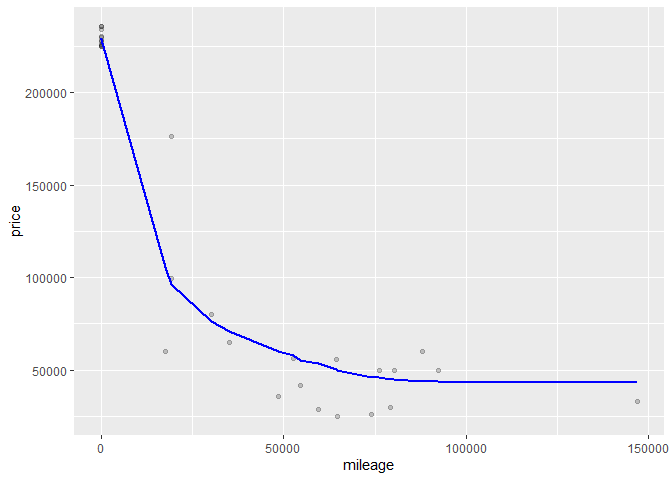
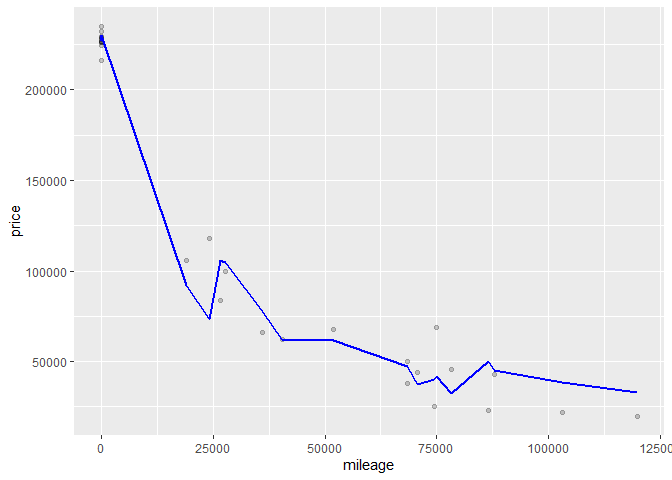
modified

diff --git a/Final_Data-Mining-HW1.md b/Final_Data-Mining-HW1.md
@@ -138,7 +138,7 @@ knn2 = knnreg(price ~ mileage, data=trim_350_train , k=2)
 rmse(knn2, trim_350_test)
 ```
 
-    ## [1] 14675.72
+    ## [1] 14694.68
 
 KNN with K = 5
 
@@ -148,7 +148,7 @@ knn5 = knnreg(price ~ mileage, data=trim_350_train , k=5)
 rmse(knn5, trim_350_test)
 ```
 
-    ## [1] 13713
+    ## [1] 14010.1
 
 KNN with K = 10
 
@@ -158,13 +158,13 @@ knn10 = knnreg(price ~ mileage, data=trim_350_train , k=10)
 rmse(knn10, trim_350_test)
 ```
 
-    ## [1] 13752.62
+    ## [1] 11971.27
 
 \#RMSE versus K
 
 ![](Final_Data-Mining-HW1_files/figure-gfm/unnamed-chunk-22-1.png)<!-- -->
 
-\#Optimal at K=17…
+\#Optimal at K=14…
 
 ![](Final_Data-Mining-HW1_files/figure-gfm/unnamed-chunk-23-1.png)<!-- -->
 
@@ -191,7 +191,7 @@ knn2 = knnreg(price ~ mileage, data=trim_65AMG_train , k=2)
 rmse(knn2, trim_65AMG_test)
 ```
 
-    ## [1] 25228.86
+    ## [1] 18406.93
 
 KNN with K = 5
 
@@ -201,7 +201,7 @@ knn5 = knnreg(price ~ mileage, data=trim_65AMG_train , k=5)
 rmse(knn5, trim_65AMG_test)
 ```
 
-    ## [1] 22109.78
+    ## [1] 14269.27
 
 KNN with K = 10
 
@@ -211,18 +211,18 @@ knn10 = knnreg(price ~ mileage, data=trim_65AMG_train , k=10)
 rmse(knn10, trim_65AMG_test)
 ```
 
-    ## [1] 20279.01
+    ## [1] 11675.81
 
 \#RMSE versus K
 
 ![](Final_Data-Mining-HW1_files/figure-gfm/unnamed-chunk-29-1.png)<!-- -->
 
-\#Optimal at K=70
+\#Optimal at K=6
 
 ![](Final_Data-Mining-HW1_files/figure-gfm/unnamed-chunk-30-1.png)<!-- -->
 
-According to my train-test split(0.9/0.1) 65 AMG yield greater value of
-K, but since the sample is not very big, it depends on the random
-process that R assign the train/test split. I think the reason that two
-trim has different values of K is mainly because 65 AMG has smaller data
-size, and its mileage information varies less.
+According to my train-test split(0.9/0.1), 350 yields a greater value of
+K.However,since the sample is not very big, it depends heavily on the
+random process that R assigns the train/test split. I think the reason
+that two trims have different values of K is mainly because 65 AMG has a
+smaller data size, and its mileage information varies less.
